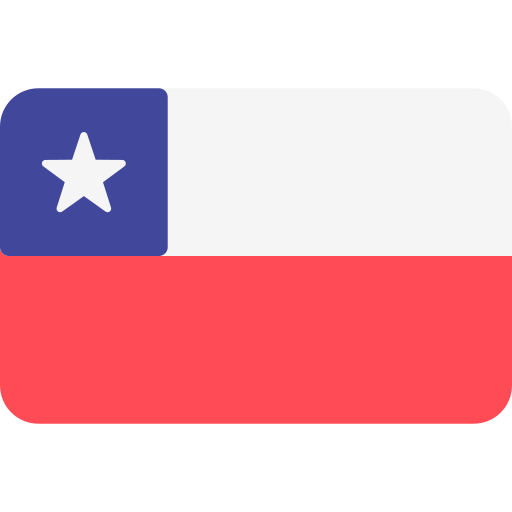
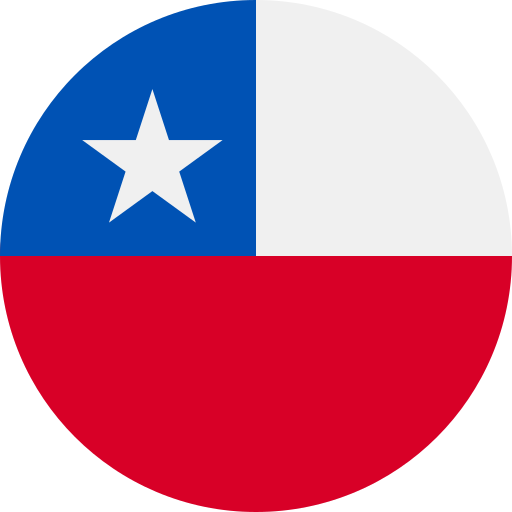
Update gift assets and enhance country configurations
- Replaced Argentina and Chile gift images with updated versions.
- Added new gift image for Puerto Rico.
- Expanded RACE_COUNTRIES in config.py to include Puerto Rico and Uruguay, improving gameplay diversity.
- Updated COUNTRY_SHORTCUTS and COUNTRY_KEYWORDS to support new countries.
- Adjusted num_lanes in PhysicsWorld to accommodate 10 countries for better gameplay experience.
- Ensured all changes comply with documentation standards and resource management rules.

diff --git a/src/config.py b/src/config.py
@@ -62,10 +62,11 @@ RACE_FINISH_X = int(SCREEN_WIDTH * SAFE_ZONE_FINISH_RATIO)  # Meta avoids right-
 RACE_START_X = RACE_OFFSET_X
 FLAG_RADIUS = 10         # Reduced for spacious, professional look in safe zone
 
-# Race countries (used for flag sprites) - Reduced to 8 for better gameplay
+# Race countries (used for flag sprites)
 RACE_COUNTRIES = [
     "Argentina", "Brasil", "Mexico", "Colombia",
     "Chile", "Peru", "Venezuela", "USA",
+    "PuertoRico", "Uruguay",
 ]
 
 # Country shortcuts for COMMENT mode (siglas + números)
@@ -93,6 +94,14 @@ COUNTRY_SHORTCUTS = {
 
     # USA
     "8": "USA", "usa": "USA", "us": "USA", "america": "USA",
+
+    # Puerto Rico
+    "9": "PuertoRico", "pri": "PuertoRico", "puertorico": "PuertoRico",
+    "pr": "PuertoRico", "puerto rico": "PuertoRico",
+
+    # Uruguay
+    "10": "Uruguay", "uru": "Uruguay", "uruguay": "Uruguay",
+    "uy": "Uruguay",
 }
 
 # Country abbreviations for display (3 letters)
@@ -105,6 +114,8 @@ COUNTRY_ABBREV = {
     "Peru": "PER",
     "Venezuela": "VEN",
     "USA": "USA",
+    "PuertoRico": "PRI",
+    "Uruguay": "URU",
 }
 
 # Comment mode settings
@@ -380,6 +391,14 @@ COUNTRY_KEYWORDS = {
     # USA
     'usa': 'USA', 'united states': 'USA', 'us': 'USA',
     'america': 'USA', '🇺🇸': 'USA',
+
+    # Puerto Rico
+    'pri': 'PuertoRico', 'puertorico': 'PuertoRico', 'pr': 'PuertoRico',
+    'puerto rico': 'PuertoRico', '🇵🇷': 'PuertoRico',
+
+    # Uruguay
+    'uru': 'Uruguay', 'uruguay': 'Uruguay', 'uy': 'Uruguay',
+    '🇺🇾': 'Uruguay',
 }
 
 # Anti-spam para joins

diff --git a/src/physics_world.py b/src/physics_world.py
@@ -63,7 +63,7 @@ class PhysicsWorld:
         self.racers: dict[str, FlagRacer] = {}
         
         # Race configuration - Using optimized constants from config
-        self.num_lanes = 8  # Reduced to 8 countries for better gameplay
+        self.num_lanes = 10  # 10 countries
 
         # Game area (excluding header and footer)
         self.game_area_top = GAME_AREA_TOP       # 35px below header
@@ -74,7 +74,7 @@ class PhysicsWorld:
         self.start_x = RACE_START_X
         self.finish_line_x = RACE_FINISH_X
 
-        # Countries/teams (8 countries total)
+        # Countries/teams
         self.countries = list(RACE_COUNTRIES)
         
         # Winner tracking

diff --git a/src/game_engine.py b/src/game_engine.py
@@ -4344,7 +4344,9 @@ class GameEngine:
             'USA': 'USA',
             'Indonesia': 'IDN',
             'Russia': 'RUS',
-            'Italy': 'ITA'
+            'Italy': 'ITA',
+            'PuertoRico': 'PRI',
+            'Uruguay': 'URU',
         }
         return abbrev_map.get(country, '???')
     
